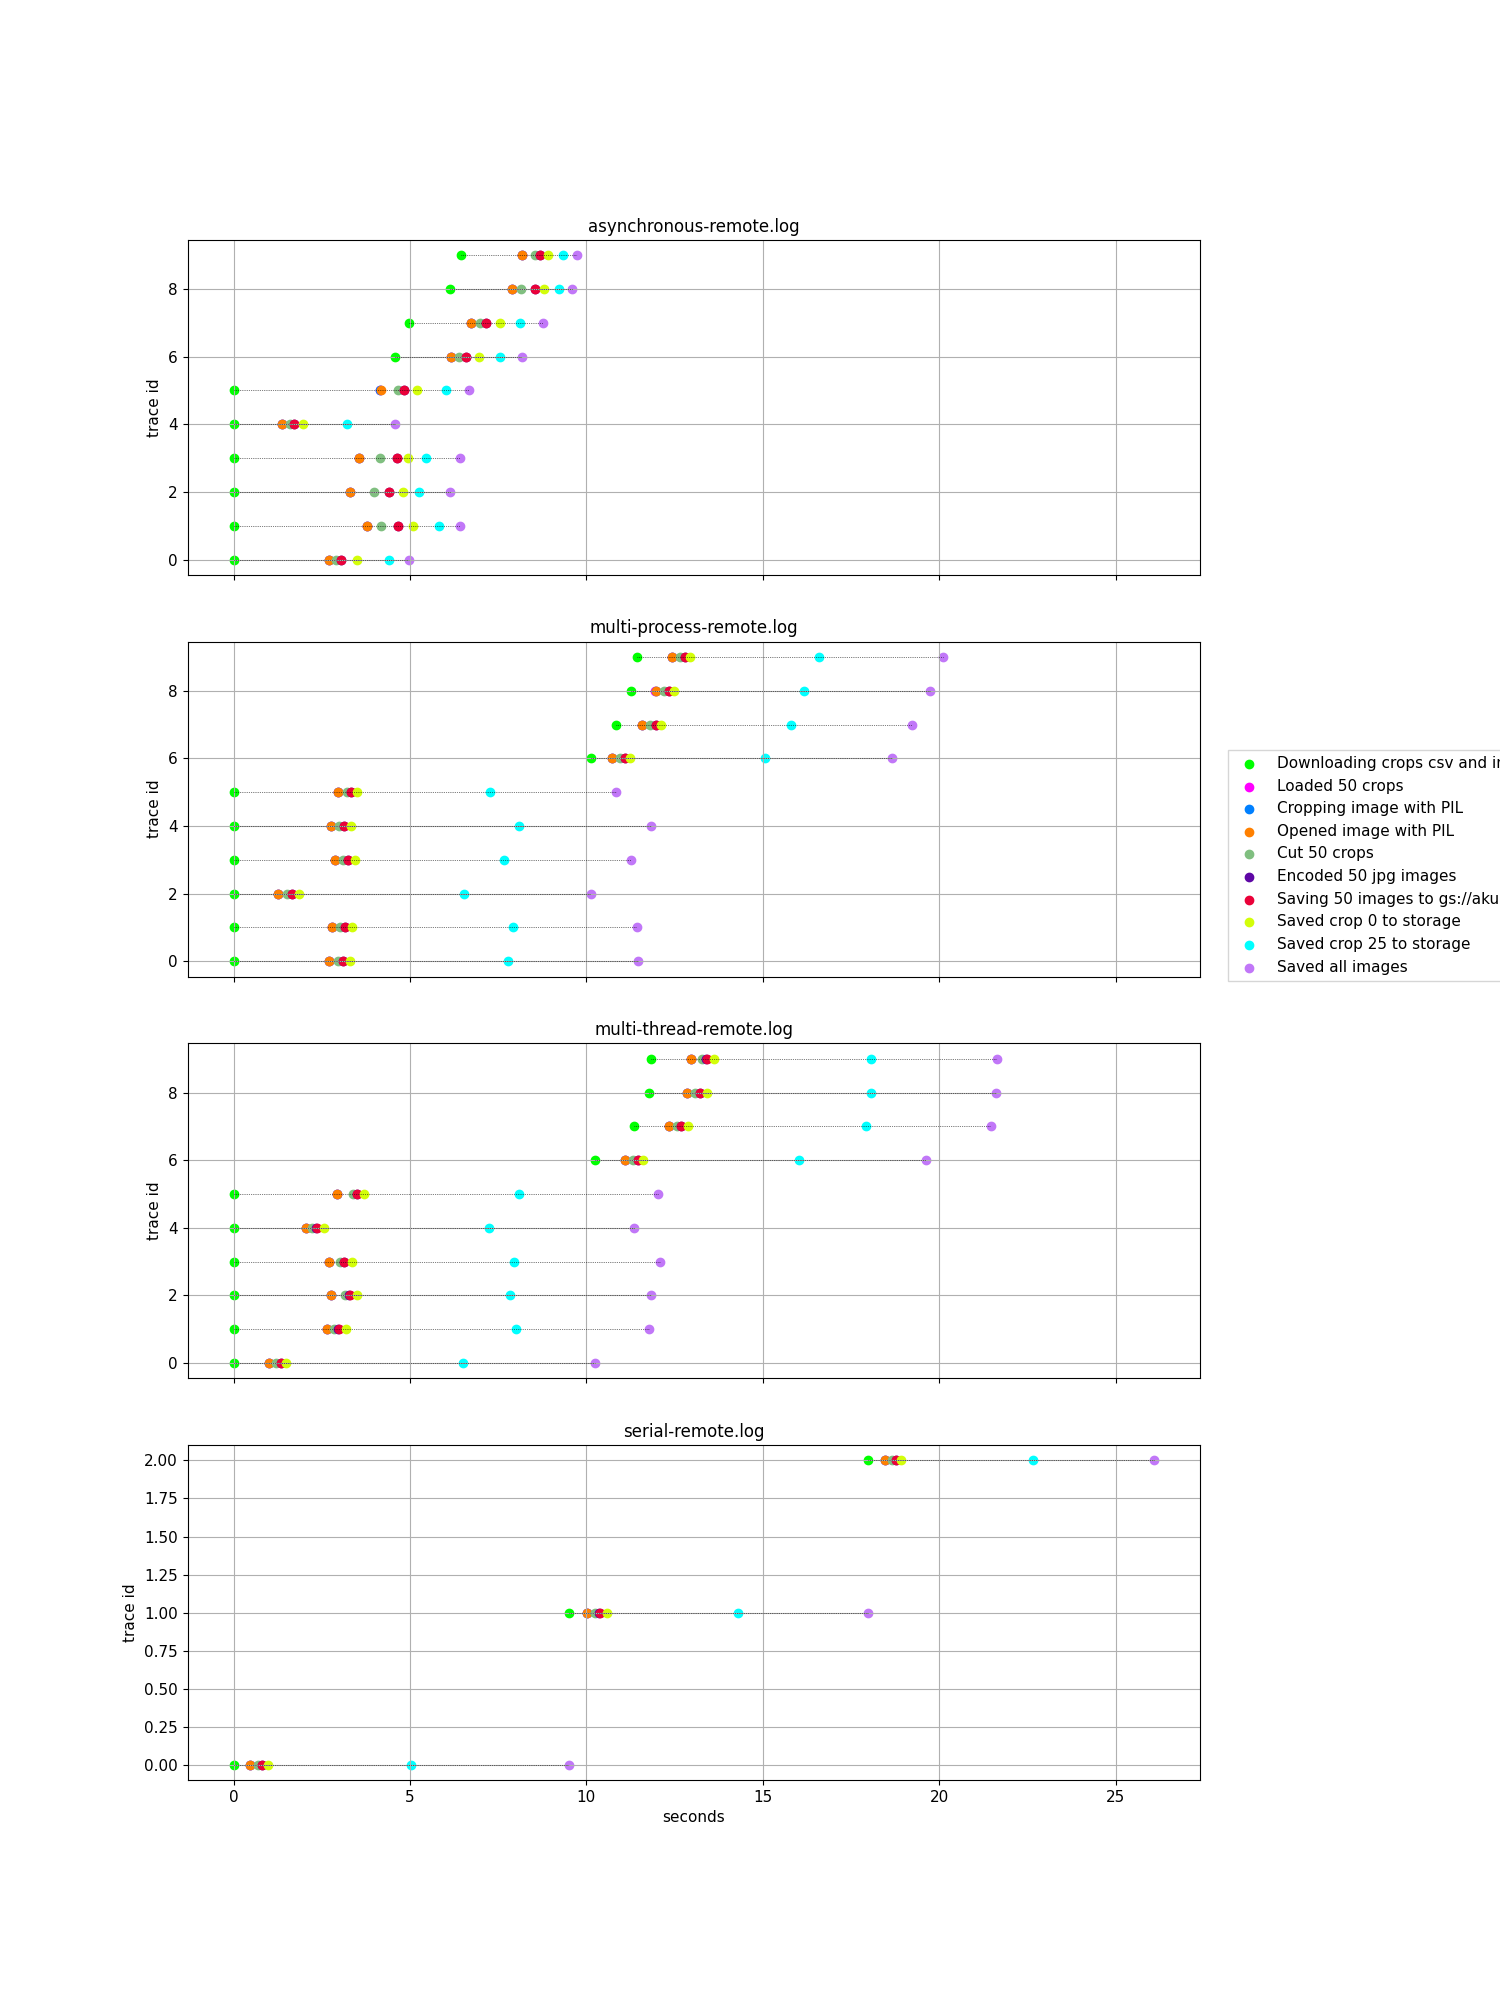
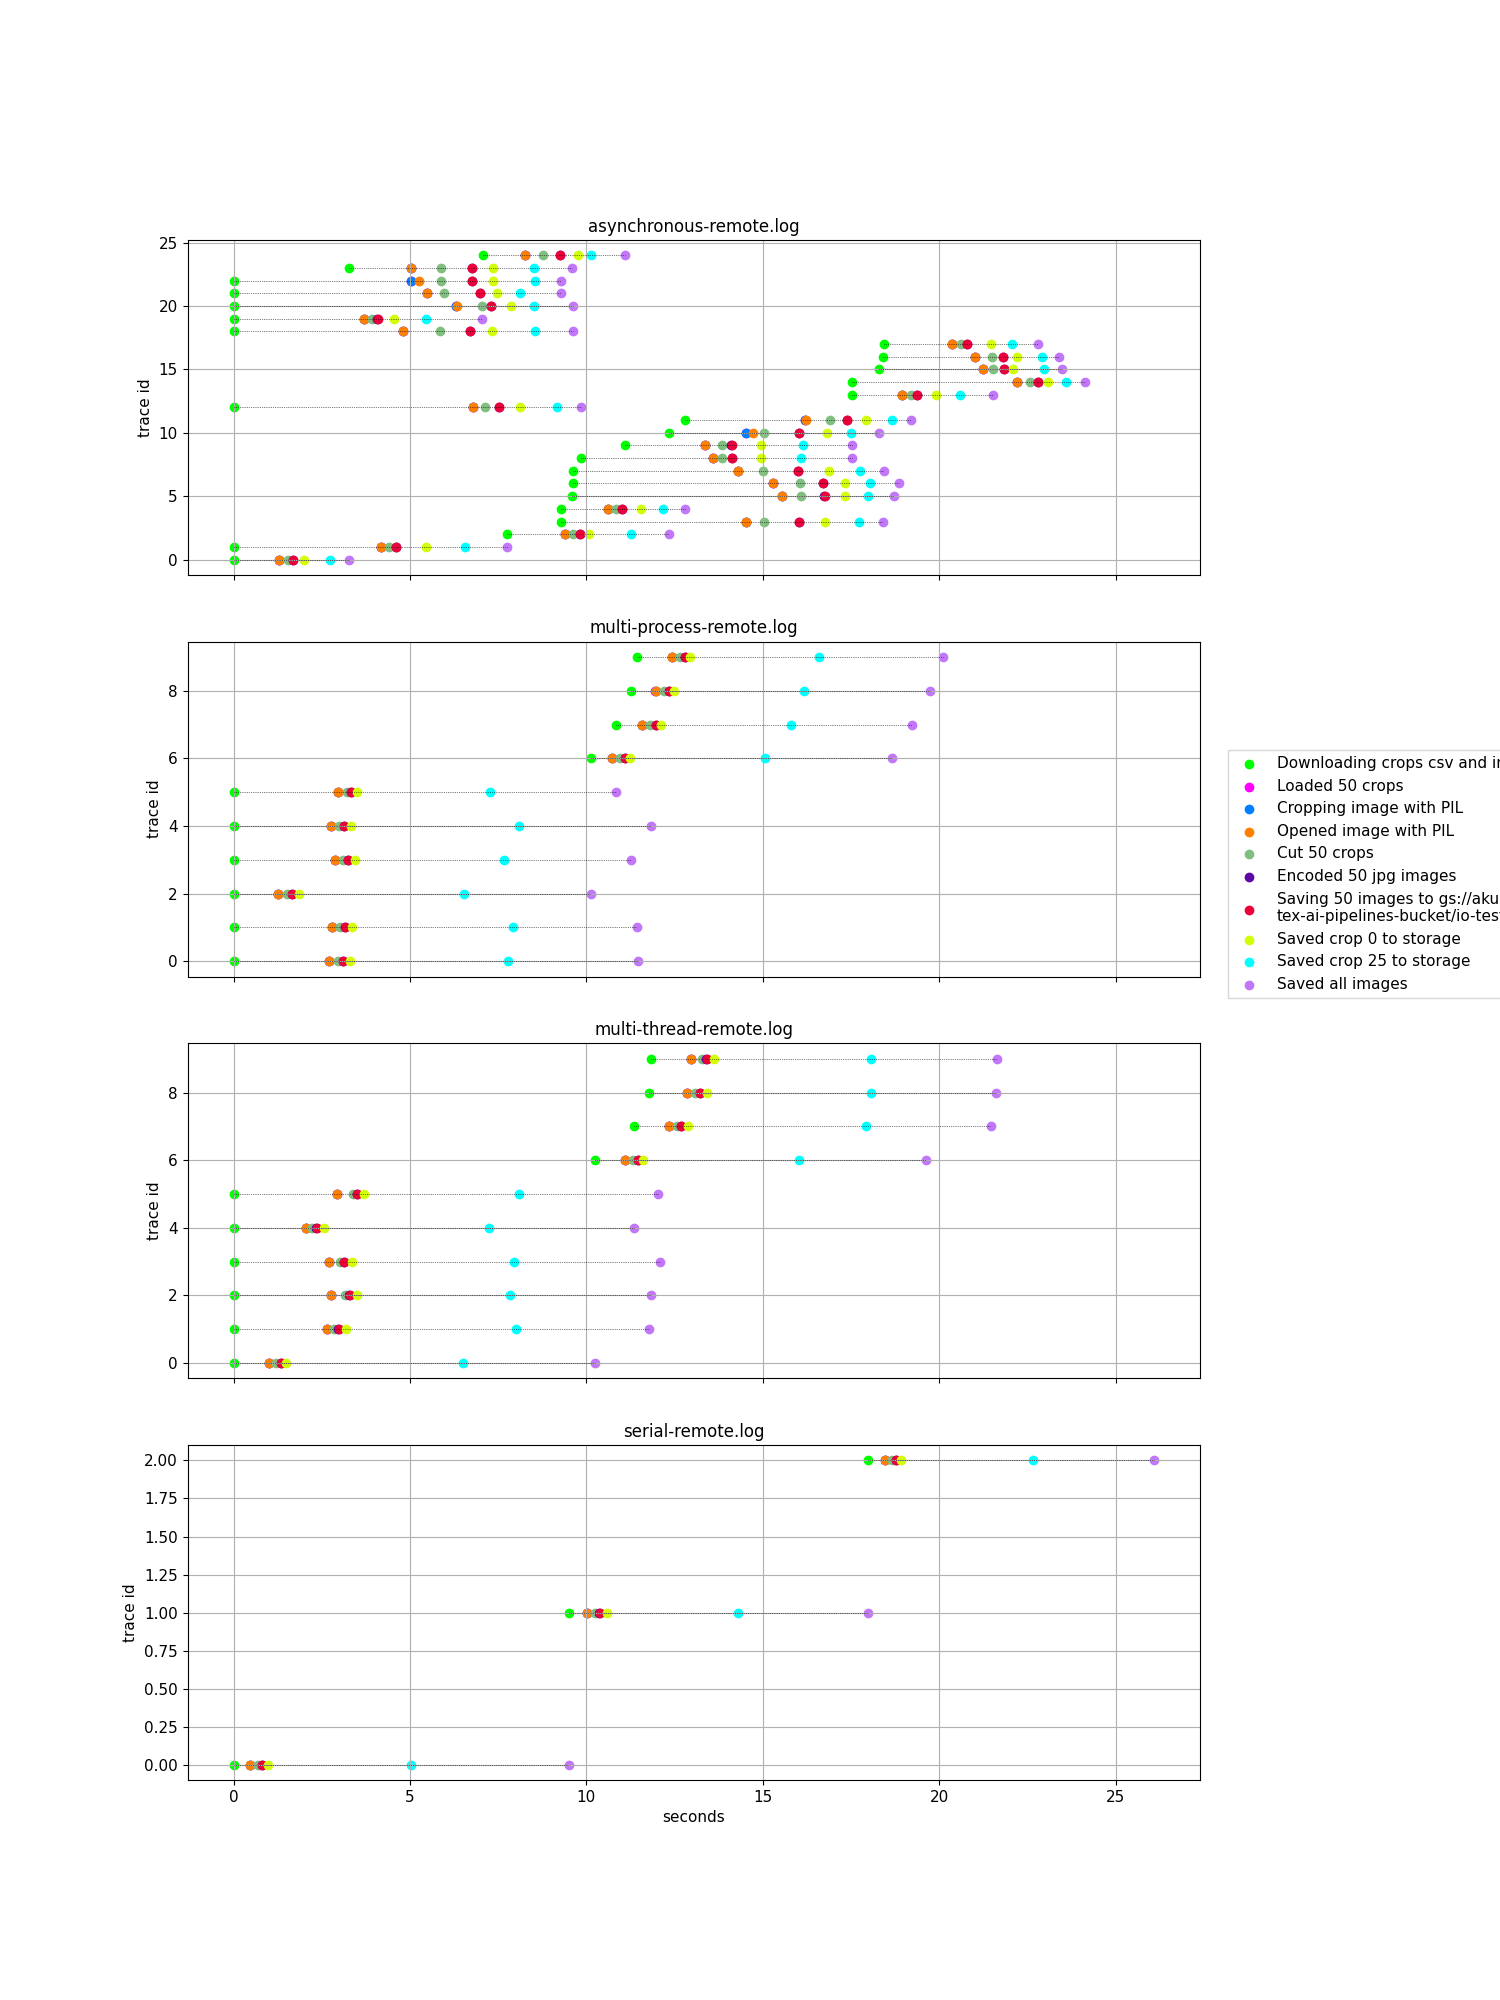
change loged names, new plot with longer benchmark

diff --git a/src/mixed_io_cpu_task/io_utils.py b/src/mixed_io_cpu_task/io_utils.py
@@ -9,7 +9,6 @@ import os
 from google.cloud import storage
 
 from gcloud.aio.storage import Storage, Blob
-from aiohttp import ClientSession as Session
 
 logger = logging.getLogger("default")
 storage_client = storage.Client()
@@ -156,7 +155,7 @@ async def _load_gs_image_async(image_path: str) -> BytesIO:
 def save_image_buffers(buffers: List[BytesIO], save_dir: str, trace_id: str):
     """Saves image buffers to save_dir with random uuid as filename"""
     logger.debug(
-        f"Saving {len(buffers)} images to {save_dir[:25]}", extra={"trace_id": trace_id}
+        f"Saving {len(buffers)} images to {save_dir}", extra={"trace_id": trace_id}
     )
     for i, buffer in enumerate(buffers):
         filename = f"{uuid.uuid4()}.jpg"
@@ -204,7 +203,7 @@ async def save_image_buffers_async(
 ):
     """Saves image buffers to save_dir with random uuid as filename"""
     logger.debug(
-        f"Saving {len(buffers)} images to {save_dir[:25]}", extra={"trace_id": trace_id}
+        f"Saving {len(buffers)} images to {save_dir}", extra={"trace_id": trace_id}
     )
     tasks = []
     for i, buffer in enumerate(buffers):

diff --git a/src/mixed_io_cpu_task/commands/plot_logs.py b/src/mixed_io_cpu_task/commands/plot_logs.py
@@ -64,6 +64,8 @@ def _plot_file(input_log_file: pathlib.Path, ax=None, labels=False):
     df["asctime"] = df["asctime"] - df["asctime"].min()
     single_trace_id = list(set(df["trace_id"]))[0]
 
+    # cut message to 100 characters
+    df["message"] = df["message"].map(lambda x: x[:100])
     # assign different color to every message
     available_colors = distinctipy.get_colors(len(df["message"].unique()), rng=42)
     message_to_color = dict(zip(df["message"].unique(), available_colors))
@@ -77,7 +79,7 @@ def _plot_file(input_log_file: pathlib.Path, ax=None, labels=False):
         for _, point in group.iterrows():
             message = point["message"]
             # break message into lines if longer than 50 characters
-            if len(message) > 50:
+            if len(message) > 30:
                 message = "\n".join(
                     [message[i : i + 50] for i in range(0, len(message), 50)]
                 )
